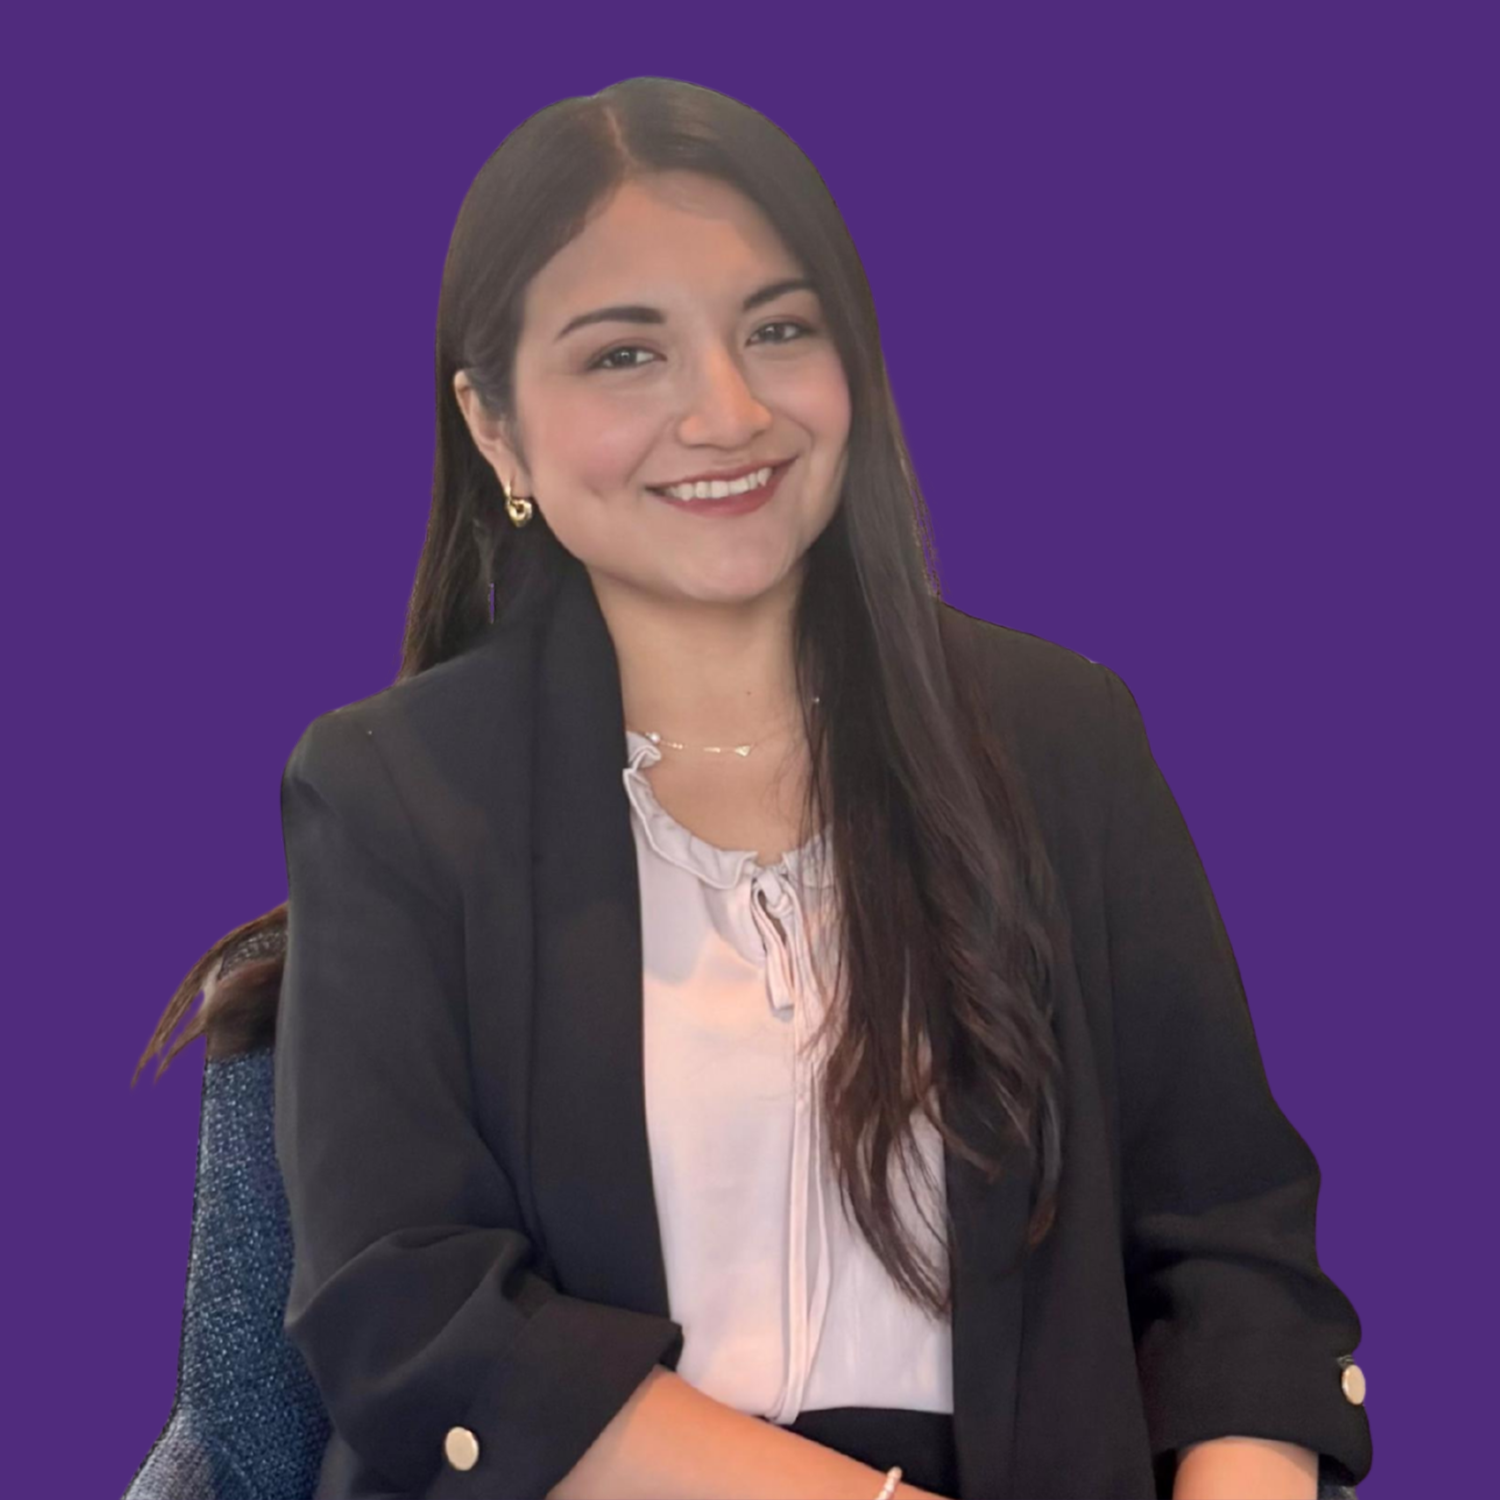
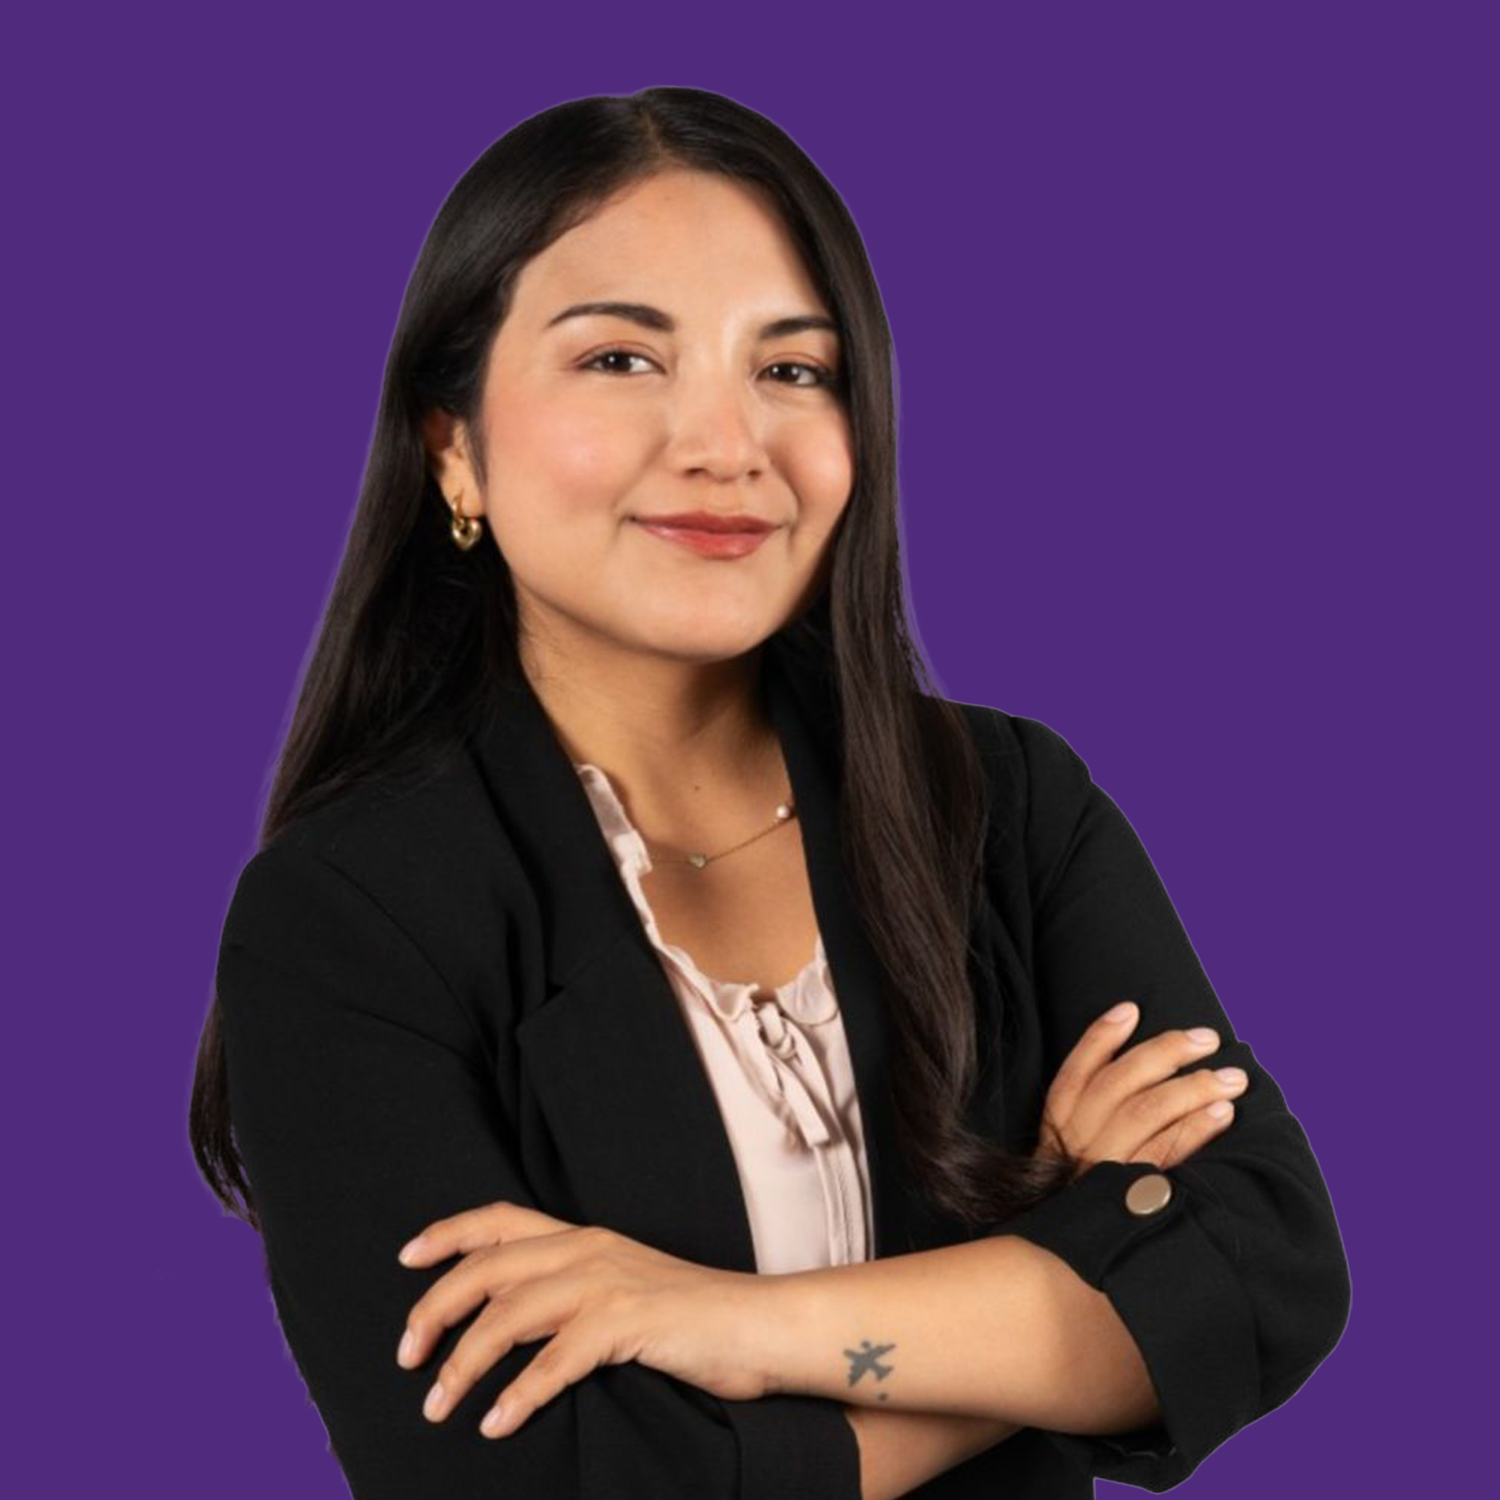
arreglos en consultrias

diff --git a/src/utils/experts.ts b/src/utils/experts.ts
@@ -23,8 +23,8 @@ export const experts: Expert[] = [
     id: "kelly",
     name: "Kelly Gómez",
     role: "Estrategia de Recursos Humanos",
-    tags: ["Coaching", "Liderazgo de equipos", "Talent Acquisition", "Performance", "People Analytics"],
-    bio: "Líder en RR.HH. con experiencia en gestión de talento y cumplimiento laboral. Su enfoque se centra en construir equipos de alto rendimiento y fomentar culturas inclusivas basadas en datos.",
+    tags: ["Coaching", "Liderazgo de equipos", "Talent Acquisition", "Performance", "People Analytics", "Payroll"],
+    bio: "Kelly es una líder en RR. HH. con profunda experiencia en gestión de talento, compensaciones y cumplimiento de la ley laboral. Su enfoque se centra en construir equipos de alto rendimiento y fomentar culturas de trabajo inclusivas y basadas en datos para impulsar la escalabilidad.",
     imageUrl: "/con-kelly.png",
     linkedinUrl: "https://www.linkedin.com/in/kelly-g%C3%B3mez-a13973148/",
   },
@@ -33,7 +33,7 @@ export const experts: Expert[] = [
     name: "Karry Marmolejo",
     role: "People Analytics e Inteligencia de Talento",
     tags: ["Digitalización y automatización", "Performance", "People Analytics"],
-    bio: "Apasionada por los datos y la tecnología, optimiza el rendimiento y la gestión del talento con un enfoque analítico y humano.",
+    bio: "Apasionada por los datos y la tecnología, Karry utiliza su experiencia en People Analytics para optimizar el rendimiento y la gestión del talento. Su enfoque analítico, basado en ciencias del comportamiento, permite tomar decisiones estratégicas que impactan positivamente en las personas y el negocio.",
     imageUrl: "/con-karry.png",
     linkedinUrl: "https://www.linkedin.com/in/karry-marmolejo-people-analytics/",
   },
@@ -42,7 +42,7 @@ export const experts: Expert[] = [
     name: "Cecilia Prado",
     role: "Transformación Organizacional y Tecnológica",
     tags: ["Contrataciones internacionales", "Performance", "Coaching", "Liderazgo de equipos", "Legales"],
-    bio: "Profesional dinámica que impulsa transformaciones tecnológicas y organizacionales con foco en lo que mueve el negocio con un enfoque pragmático y centrado en el cliente.",
+    bio: "Cecilia es una profesional dinámica que impulsa transformaciones tecnológicas y organizacionales en diversos sectores. Experta en construir alianzas en entornos globales y de alto crecimiento, se enfoca en lo que realmente mueve el negocio hacia adelante con un enfoque pragmático y centrado en el cliente.",
     imageUrl: "/con-ceci.png",
     linkedinUrl: "https://www.linkedin.com/in/ceciliaprado/",
   },
@@ -50,8 +50,8 @@ export const experts: Expert[] = [
     id: "adriana",
     name: "Adriana López Galvis",
     role: "Formación y Desarrollo de Talento",
-    tags: ["Coaching", "Formación y desarrollo", "Talent Acquisition", "Liderazgo de equipos", "People Analytics"],
-    bio: "Más de 12 años de experiencia acelerando el crecimiento de startups, maximizando la retención de clientes y escalando equipos.",
+    tags: ["Coaching", "Formación y desarrollo", "Talent Acquisition", "Seleccion", "Liderazgo de equipos", "People Analytics"],
+    bio: "Profesional especializada en el desarrollo de competencias y la empleabilidad. Adriana integra la analítica de datos para diseñar rutas de aprendizaje efectivas y medir el impacto de la capacitación. Acompaña a personas y equipos en su crecimiento, acelerando la inserción laboral y el desarrollo profesional.",
     imageUrl: "/con-adri.png",
     linkedinUrl: "https://www.linkedin.com/in/adrianalopezgalvis/",
   },

diff --git a/src/views/servicios/consultorias.tsx b/src/views/servicios/consultorias.tsx
@@ -5,7 +5,7 @@ import { Banner } from "@/components/banner/banner";
 export const metadata = {
   title: "Membresías | Uplin",
   description:
-    "Descubre a las expertas de Uplin y elige una membresía para impulsar tu negocio.",
+    "Descubre a las personas expertas de Uplin y elige una membresía para impulsar tu negocio.",
 };
 export default function ConsultoriasPage() {
   return (
@@ -30,14 +30,11 @@ export default function ConsultoriasPage() {
             {" "}
             <h1 className="text-center text-3xl md:text-4xl font-extrabold text-[#5C2D91] drop-shadow-sm">
               {" "}
-              Descubre a las expertas que impulsarán tu negocio{" "}
+              Descubre a las personas expertas que impulsarán tu negocio{" "}
             </h1>{" "}
             <p className="max-w-3xl mx-auto mt-5 text-center text-gray-700 leading-relaxed">
               {" "}
-              En Uplin, creemos que el talento es la clave para el crecimiento.
-              Hemos reunido a un equipo de consultoras excepcionales, listas
-              para ofrecer soluciones estratégicas y personalizadas. Conecta
-              directamente con la experta que tu empresa necesita.{" "}
+              En Uplin, creemos que el talento es la clave para el crecimiento. Hemos reunido a un staff excepcional  para ofrecer soluciones estratégicas y personalizadas. Conecta directamente con la persona que tu empresa necesita.
             </p>{" "}
           </div>{" "}
         </div>{" "}
